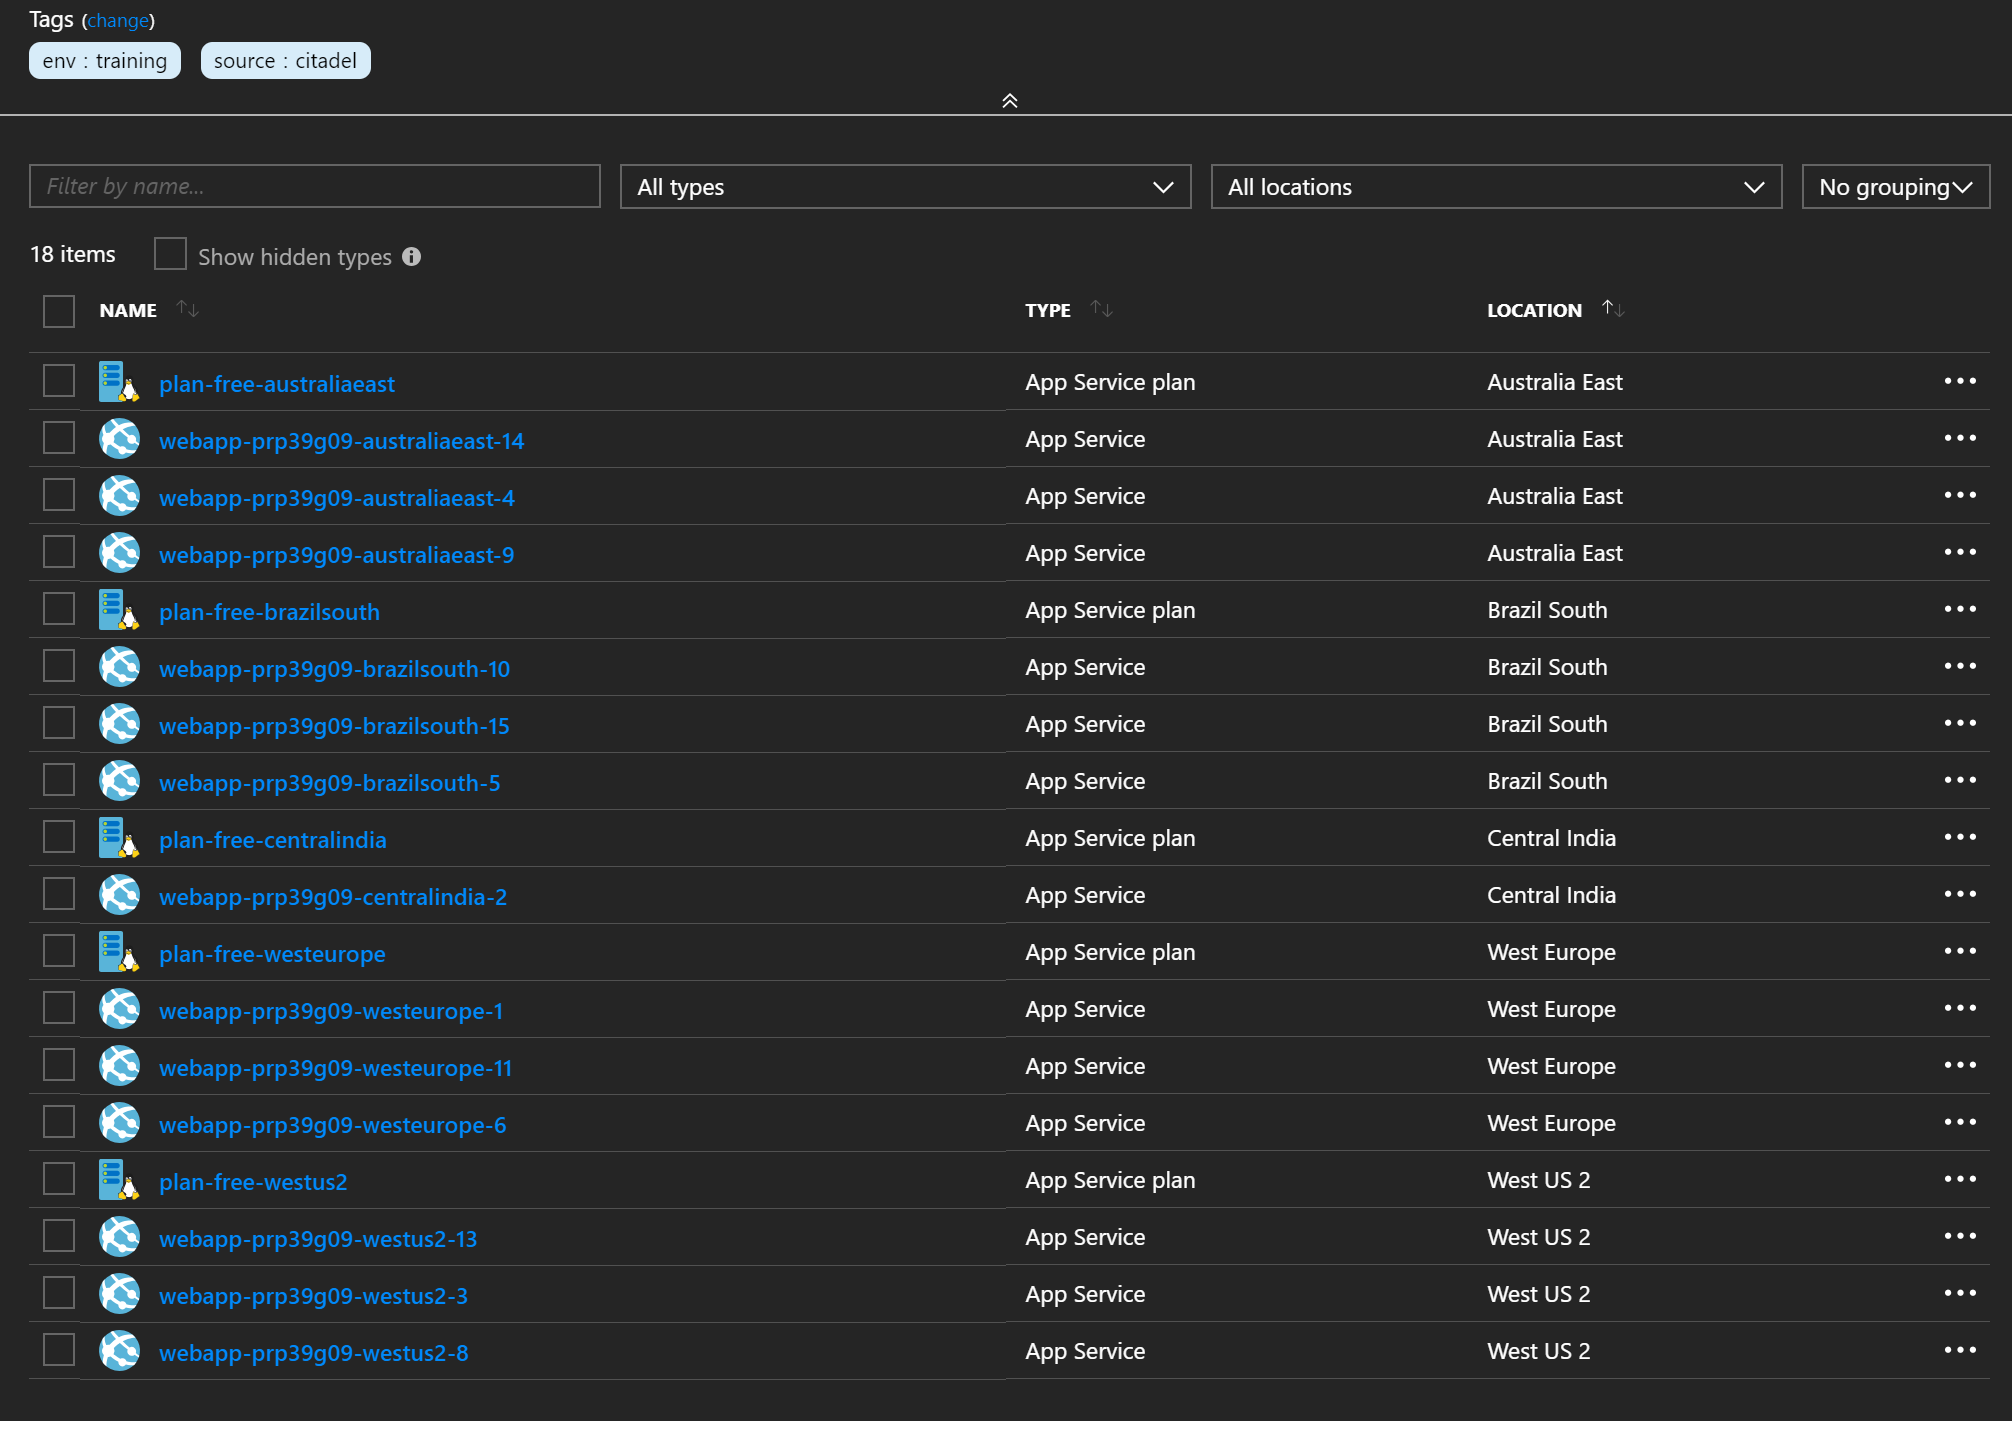
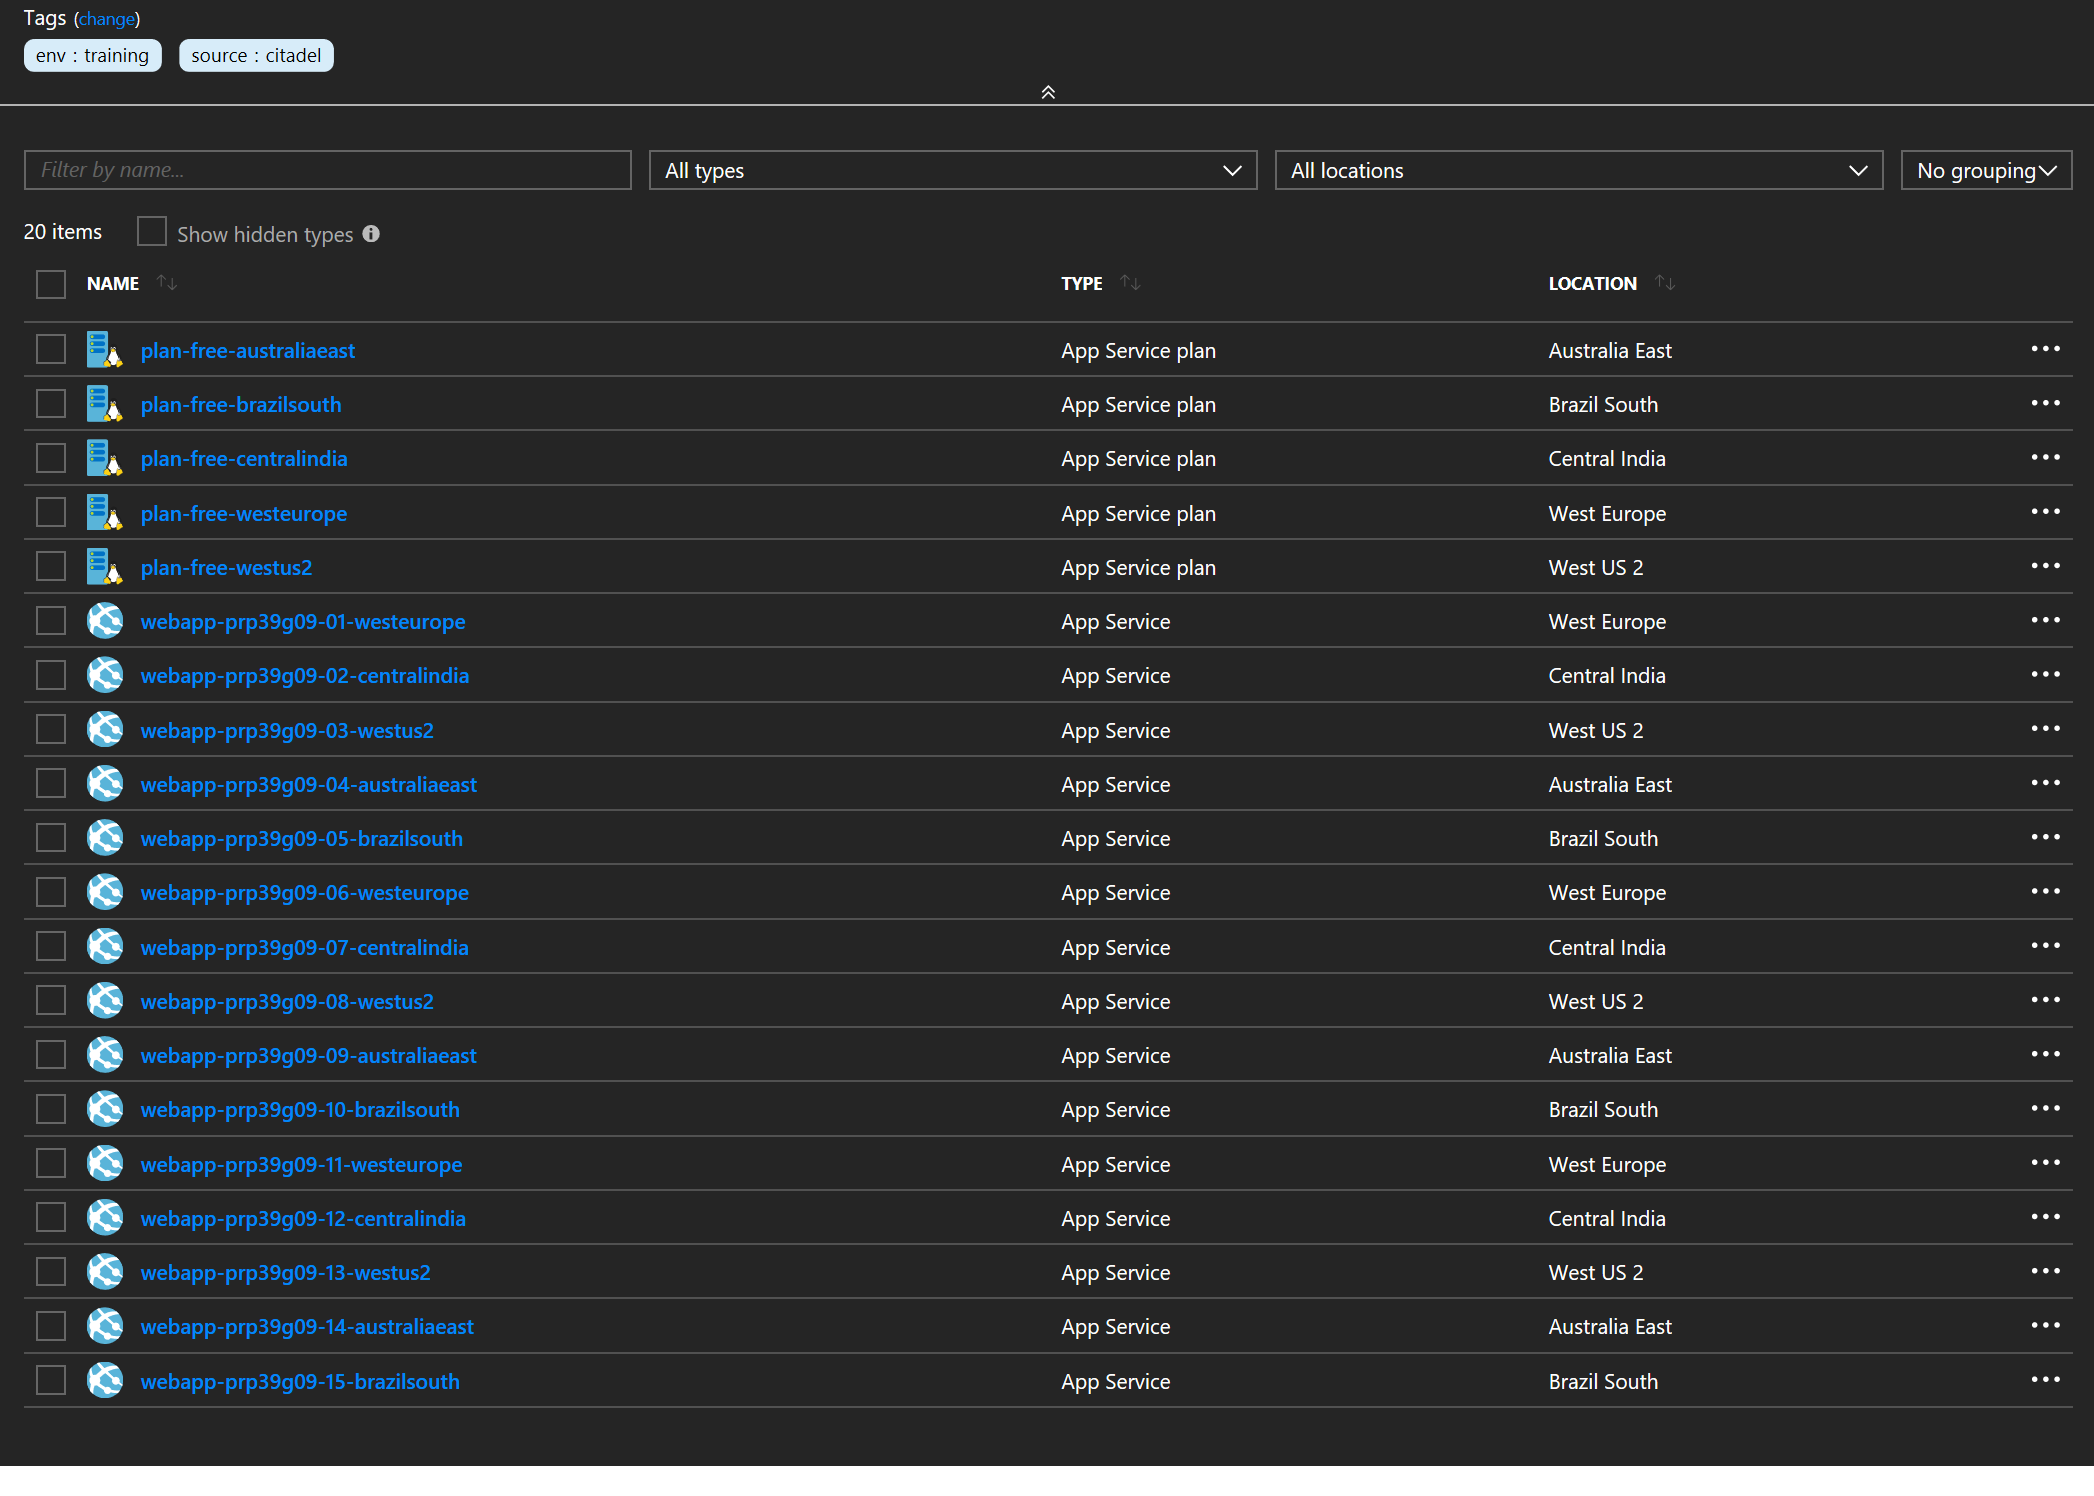
Improved naming convention using format

diff --git a/workshops/terraform/lab4.md b/workshops/terraform/lab4.md
@@ -138,6 +138,8 @@ If you run the terraform plan at this point then it should error, saying that it
     * `echo "azurerm_app_service_plan.free.*.id" | terraform console`
     * `echo "azurerm_app_service.citadel.*.default_site_hostname" | terraform console`
 
+## Multiple web apps per location
+
 One really nice feature of the element() function is that it automatically wraps, acting like a mod operator.  So if you wanted to have a number of web apps at each location you could create a new variable, multiply up the count and use the index directly in the naming convention. Here is an example of the two stanzas plus a local variable:
 
 ```ruby
@@ -161,7 +163,7 @@ resource "azurerm_app_service_plan" "free" {
 
 resource "azurerm_app_service" "citadel" {
     count               = "${ length(var.webapplocs) * local.webappsperloc }"
-    name                = "webapp-${random_string.webapprnd.result}-${element(var.webapplocs, count.index)}-${count.index + 1}"
+    name                = "${format("webapp-%s-%02d-%s", random_string.webapprnd.result, count.index + 1, element(var.webapplocs, count.index))}"
     location            = "${element(var.webapplocs, count.index)}"
     resource_group_name = "${azurerm_resource_group.webapps.name}"
     tags                = "${azurerm_resource_group.webapps.tags}"
@@ -170,7 +172,13 @@ resource "azurerm_app_service" "citadel" {
 }
 ```
 
-That could be a little by using format to set leading zeros for a better naming convention, but proves the point:
+The stanza for the app service plans is unchanged.  The count for the app service plans is still based on the number of regions.
+
+The app_service stanza is very different.  For starters, the count for the web apps is now the number of regions multiplied by the webappsperloc local.
+
+The location makes use of element to loop round the locations.  So if there are five locations (0-4), then location 0 would be used when count.index is 0, 5 and 10.
+
+And the naming has been formatted better, to include the count index which has been incremented by one (to be more natural for us humans) and zero filled.  Again we are now using element for the region shortname suffix.
 
 ![Multiple Web Apps in multiple locations](/workshops/terraform/images/webappsperloc.png)
 
